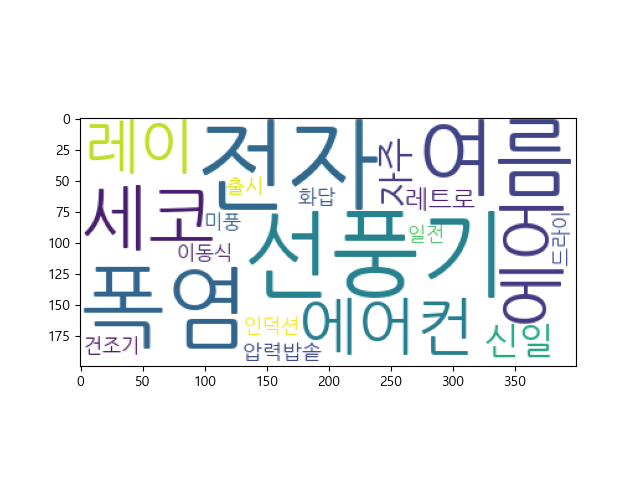
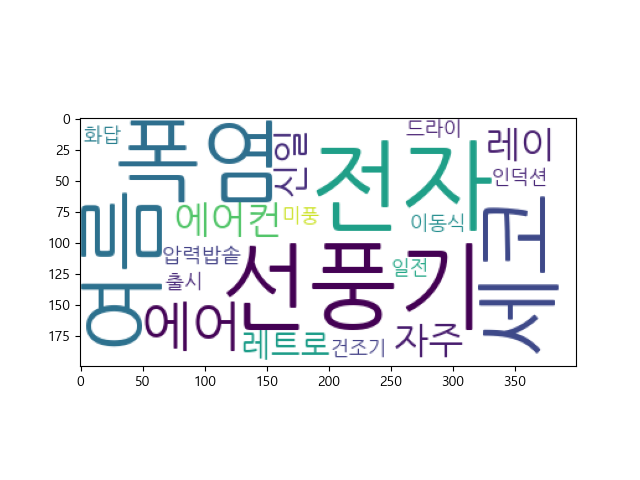
#9 cleansing code

Changed region(s): [[0.125, 0.25, 0.9062, 0.75]]

diff --git a/crawling.py b/crawling.py
@@ -4,11 +4,8 @@ from konlpy.tag import Okt
 import requests
 import matplotlib.font_manager as fm
 
-
-okt = Okt()
-path_font = './data/NanumGothic.ttf'#font_path
+path_font = './data/NanumGothic.ttf'  # font_path
 path = "./data/stock_text"
-font_name = fm.FontProperties(fname=path_font, size=10).get_name()
 
 def urlToList_news_dart(url):
   response = requests.get(url)
@@ -58,11 +55,17 @@ def download_txt(name_list, code_list):
       if url[1]=='news':
         lines = urlToList_news_dart(url[0])
         term_list += lines
-    print(f'{name_list[i]}완료')
+    print(f'{name_list[i]} 완료')
+    if i%10 == 9: #중간에 끊기는 것 예방하기 위해 temp 저장
+      temp = pd.DataFrame([word_list], columns=name_list[:i])
+      temp.to_csv(f'{path}/temp_stock_texts.csv', encoding='utf-8')
     word_list.append(term_list)
   return pd.DataFrame([word_list], columns=name_list)
 if __name__ == '__main__':
-    stock_list = pd.read_csv('./data/stock_list.csv', index_col=0,encoding='utf-8')
-    df = download_txt(stock_list.name[:100], stock_list.ticker[:100])
-    df.to_csv(f'{path}/stock_texts.csv', encoding='utf-8')
+  okt = Okt()
+  font_name = fm.FontProperties(fname=path_font, size=10).get_name()
+
+  stock_list = pd.read_csv('./data/stock_list.csv', index_col=0,encoding='utf-8')
+  df = download_txt(stock_list.name, stock_list.ticker)
+  df.to_csv(f'{path}/stock_texts.csv', encoding='utf-8')
 

diff --git a/main.py b/main.py
@@ -90,20 +90,20 @@ if __name__ == '__main__':
     cosine_df = make_cosine_matrix(tfidf_matrix)
 
     ######Execute example########
-    #Input: keyword, output: stock_name
+    #Input: keyword, topN  output: stock_name
     show_stocks('코로나', 15)
-    show_stocks('클라우드', 10)
+    show_stocks('코인', 10)
     show_stocks('게임', 10)
     show_stocks('폭염', 10)
     show_stocks('배당', 10)
 
-    #Input: stock_name, output: keyword
-    show_relation_stocks('데브시스터즈', 5)
-    show_relation_stocks('기아', 10)
+    #Input: stock_name, topN output: keyword
     show_relation_stocks('위메이드', 10)
+    show_relation_stocks('신일전자', 5)
+    show_relation_stocks('데브시스터즈', 5)
 
-    #Input: stock_name, output: wordcloud
+    #Input: stock_name,topN output: wordcloud
     make_wordcloud('에쎈테크', 20)
     make_wordcloud('신일전자', 20)
-    make_wordcloud('신일전자', 20)
+    make_wordcloud('위메이드', 20)
     make_wordcloud('데브시스터즈', 20)

diff --git a/stock_list.py b/stock_list.py
@@ -2,7 +2,7 @@ import pandas as pd
 from pykrx import stock
 
 if __name__ == '__main__':
-    date = '20220513'#이 날짜 기준으로 데이터 수집
+    date = '20220527'#이 날짜 기준으로 데이터 수집
 
     kospi_ticker = stock.get_market_ticker_list(date, market = 'KOSPI')#2021/11/24에 상장된 코스피 종목 티커
     kosdaq_ticker = stock.get_market_ticker_list(date, market = 'KOSDAQ')
@@ -20,4 +20,4 @@ if __name__ == '__main__':
     stock_df.id = range(len(tickers))
     stock_df.set_index('id', inplace=True)
     print(stock_df)
-    stock_df.to_csv('./data/stock_list.csv',encoding='CP949')
+    stock_df.to_csv('./data/stock_list.csv',encoding='utf-8')
